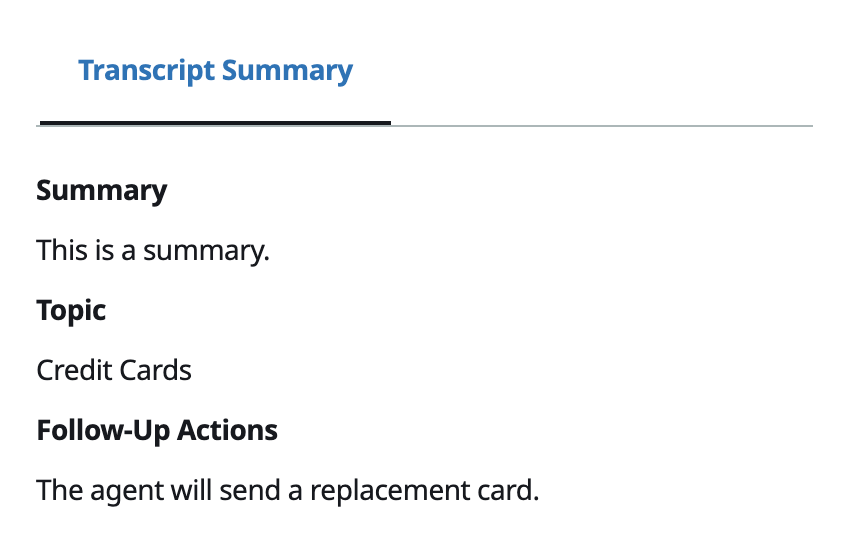
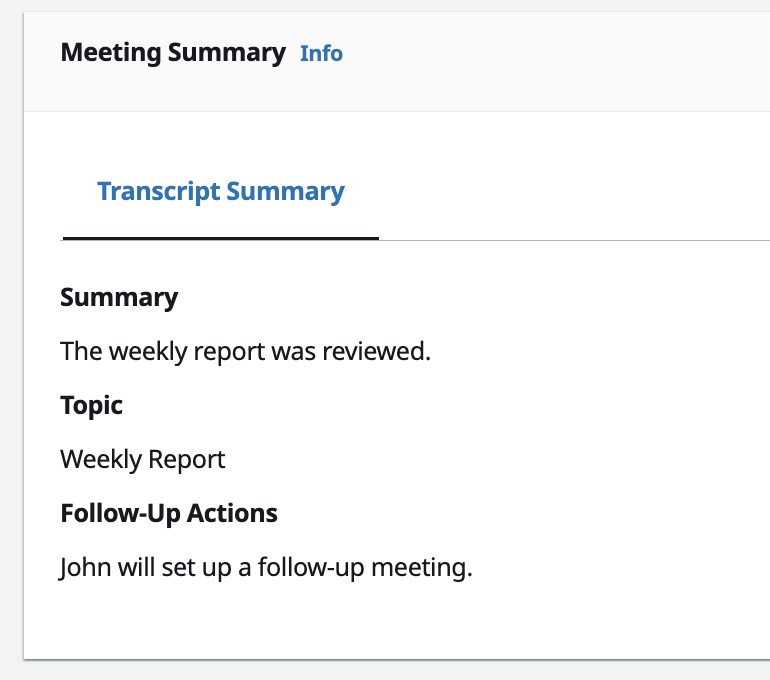
- small README updates, new images.

diff --git a/lca-ai-stack/TranscriptSummarization.md b/lca-ai-stack/TranscriptSummarization.md
@@ -1,10 +1,10 @@
 # Transcript Summarization
 
-LMA summarizes meeting transcripts once the meeting is over.
+Live Meeting Assistant (LMA) summarizes meeting transcripts once the meeting is over.
 
 ![TranscriptSummary](./images/post-meeting-summaries.png)
         
-Configure Transcript Summarization by choosing a value for the `EndOfCallTranscriptSummary` CloudFormation parameter when deploying or updating your LMA stack. Valid values are 
+You can configure Transcript Summarization by choosing a value for the `EndOfCallTranscriptSummary` CloudFormation parameter when deploying or updating your LMA stack. Valid values are 
 `BEDROCK` (default) and `LAMBDA`.
 If the `BEDROCK` option is chosen, select a supported model ID from the list (`BedrockModelId` parameter)
 
@@ -14,11 +14,11 @@ The `BEDROCK` option is enabled by default. You must [request model access](http
 
 LMA can run multiple LLM inferences after the call is complete. The prompt templates used to generate the insights from the transcript are stored in a DynamoDB table. There are two items (records) in the table:  
 
-1. **Default prompt templates:** These come with the LMA release, and define the summaries you get it you do not create custom prompt templates. Default prompts may change in new versions of LMA. View the default prompts by opening the DynamoDB URL in the LMA Stack output `LLMDefaultPromptSummaryTemplate`. 
+1. **Default prompt templates:** These come with the LMA release, and define the summaries you get if you do not create custom prompt templates. Default prompts may change in new versions of LMA. View the default prompts by opening the DynamoDB URL in the LMA Stack output `LLMDefaultPromptSummaryTemplate`. 
 
     ![DefaultPrompts](./images/summary-default-prompts.png)
 
-2. **Custom prompt templates:** Initially after deploying LMA, there are no custom prompts defined, but you can create them. Use custom prompt templates to override or disable default summary prompts, or to add new ones. Custom prompt templates are not overwritten when you update your LMA stack to a new version. View and edit the custom prompts by opening the DynamoDB URL in the LMA Stack output `LLMCustomPromptSummaryTemplate`.
+2. **Custom prompt templates:** Initially after deploying LMA, there are no custom prompts defined, but you can add your own. Create custom prompt templates to override or disable default summary prompts, or to add new ones. Custom prompt templates are not overwritten when you update your LMA stack to a new version. View and edit the custom prompts by opening the DynamoDB URL in the LMA Stack output `LLMCustomPromptSummaryTemplate`.
 
     ![Custom](./images/summary-custom-prompts.png)
 
@@ -28,7 +28,7 @@ All other attributes define the summary prompts that LMA executes when the meeti
 
 **Attribute Name:** The attribute name must be formatted using a sequence number `N`, a `#` symbol, and the heading you want to use for the summary in the UI. For example, `1#Summary` defines a heading value of **Summary**, that will always be displayed above other headings with a higher sequence number. LMA removes the sequence number before displaying the title.
 
-**Attribute Value:** The attribute value is used as the prompt template. LMA replaces `<br>` tags with newlines. Use the tempate variable `{transcript}` to indicate where the meeting transcript will be placed in the prompt. LMA replaces `{transcript}` with the actual meeting transcript in the form:
+**Attribute Value:** The attribute value is used as the prompt template. LMA replaces `<br>` tags with newlines. Use the template variable `{transcript}` to indicate where the meeting transcript will be placed in the prompt. LMA replaces `{transcript}` with the actual meeting transcript in the form:
 ```
 <SpeakerName>: <transcription text>
 <SpeakerName>: <transcription text>
@@ -49,7 +49,7 @@ LMA invokes the Bedrock model using your prompt, and renders the results in the 
 
 Use the LAMBDA option to provide your own summarization functions and/or machine learning models. This option allows you to experiment with different models and techniques to customize the summary as you need.
 
-When you choose the `LAMBDA` option, you must provide the Arn of your custom Lambda function in the `EndOfCallLambdaHookFunctionArn` CloudFormation parameter. At the end of a call, the `CallEventProcessor` Lambda function will invoke the custom Lambda and pass in the CallId of the call.
+When you choose the `LAMBDA` option, you must provide the Arn of your custom Lambda function in the `EndOfCallLambdaHookFunctionArn` CloudFormation parameter. At the end of a call, the `CallEventProcessor` Lambda function will invoke the custom Lambda function and pass in the CallId of the call.
 
 Your custom Lambda function must return the summary in the following JSON format:
 
@@ -64,7 +64,7 @@ The summary can optionally use Markdown syntax to include rich text, hyperlinks,
 If you would like to include more than one section in the summary, similar to the `BEDROCK` option, you may provide a JSON-encoded string that contains key value pairs as the summary's value. This will render each key as a section header, and the value as the body of the section. The following is an example:
 ```
 {
-  "summary": "{\n\"Summary\":\"This is a summary.\",\n\"Topic\":\"Credit Cards\",\n\"Follow-Up Actions\": \"The agent will send a replacement card.\"\n}"
+  "summary": "{\n\"Summary\":\"The weekly report was reviewed.\",\n\"Topic\":\"Weekly Report\",\n\"Follow-Up Actions\": \"John will set up a follow-up meeting.\"\n}"
 }
 ```
 This would be rendered as:
@@ -86,7 +86,7 @@ def lambda_handler(event, context):
 
 This example function trivially returns a hardcoded string as the summary. Your function will be much smarter, and will implement your custom rules or models.
   
-Use the provided [FetchTranscript utility Lambda function ](./FetchTranscriptLambda.md) in your custom summarization Lambda to retrieve the call transcript, optionally truncated to the maximum input token limit imposed by your summarization model.
+Use the provided [FetchTranscript utility Lambda function ](./FetchTranscriptLambda.md) in your custom summarization Lambda to retrieve the call transcript, and optionally truncated to the maximum input token limit imposed by your summarization model.
 
 If your custom Lambda fails at runtime, or you do not want to return a summary for the call, return an empty string for the value of the summary field.
 
